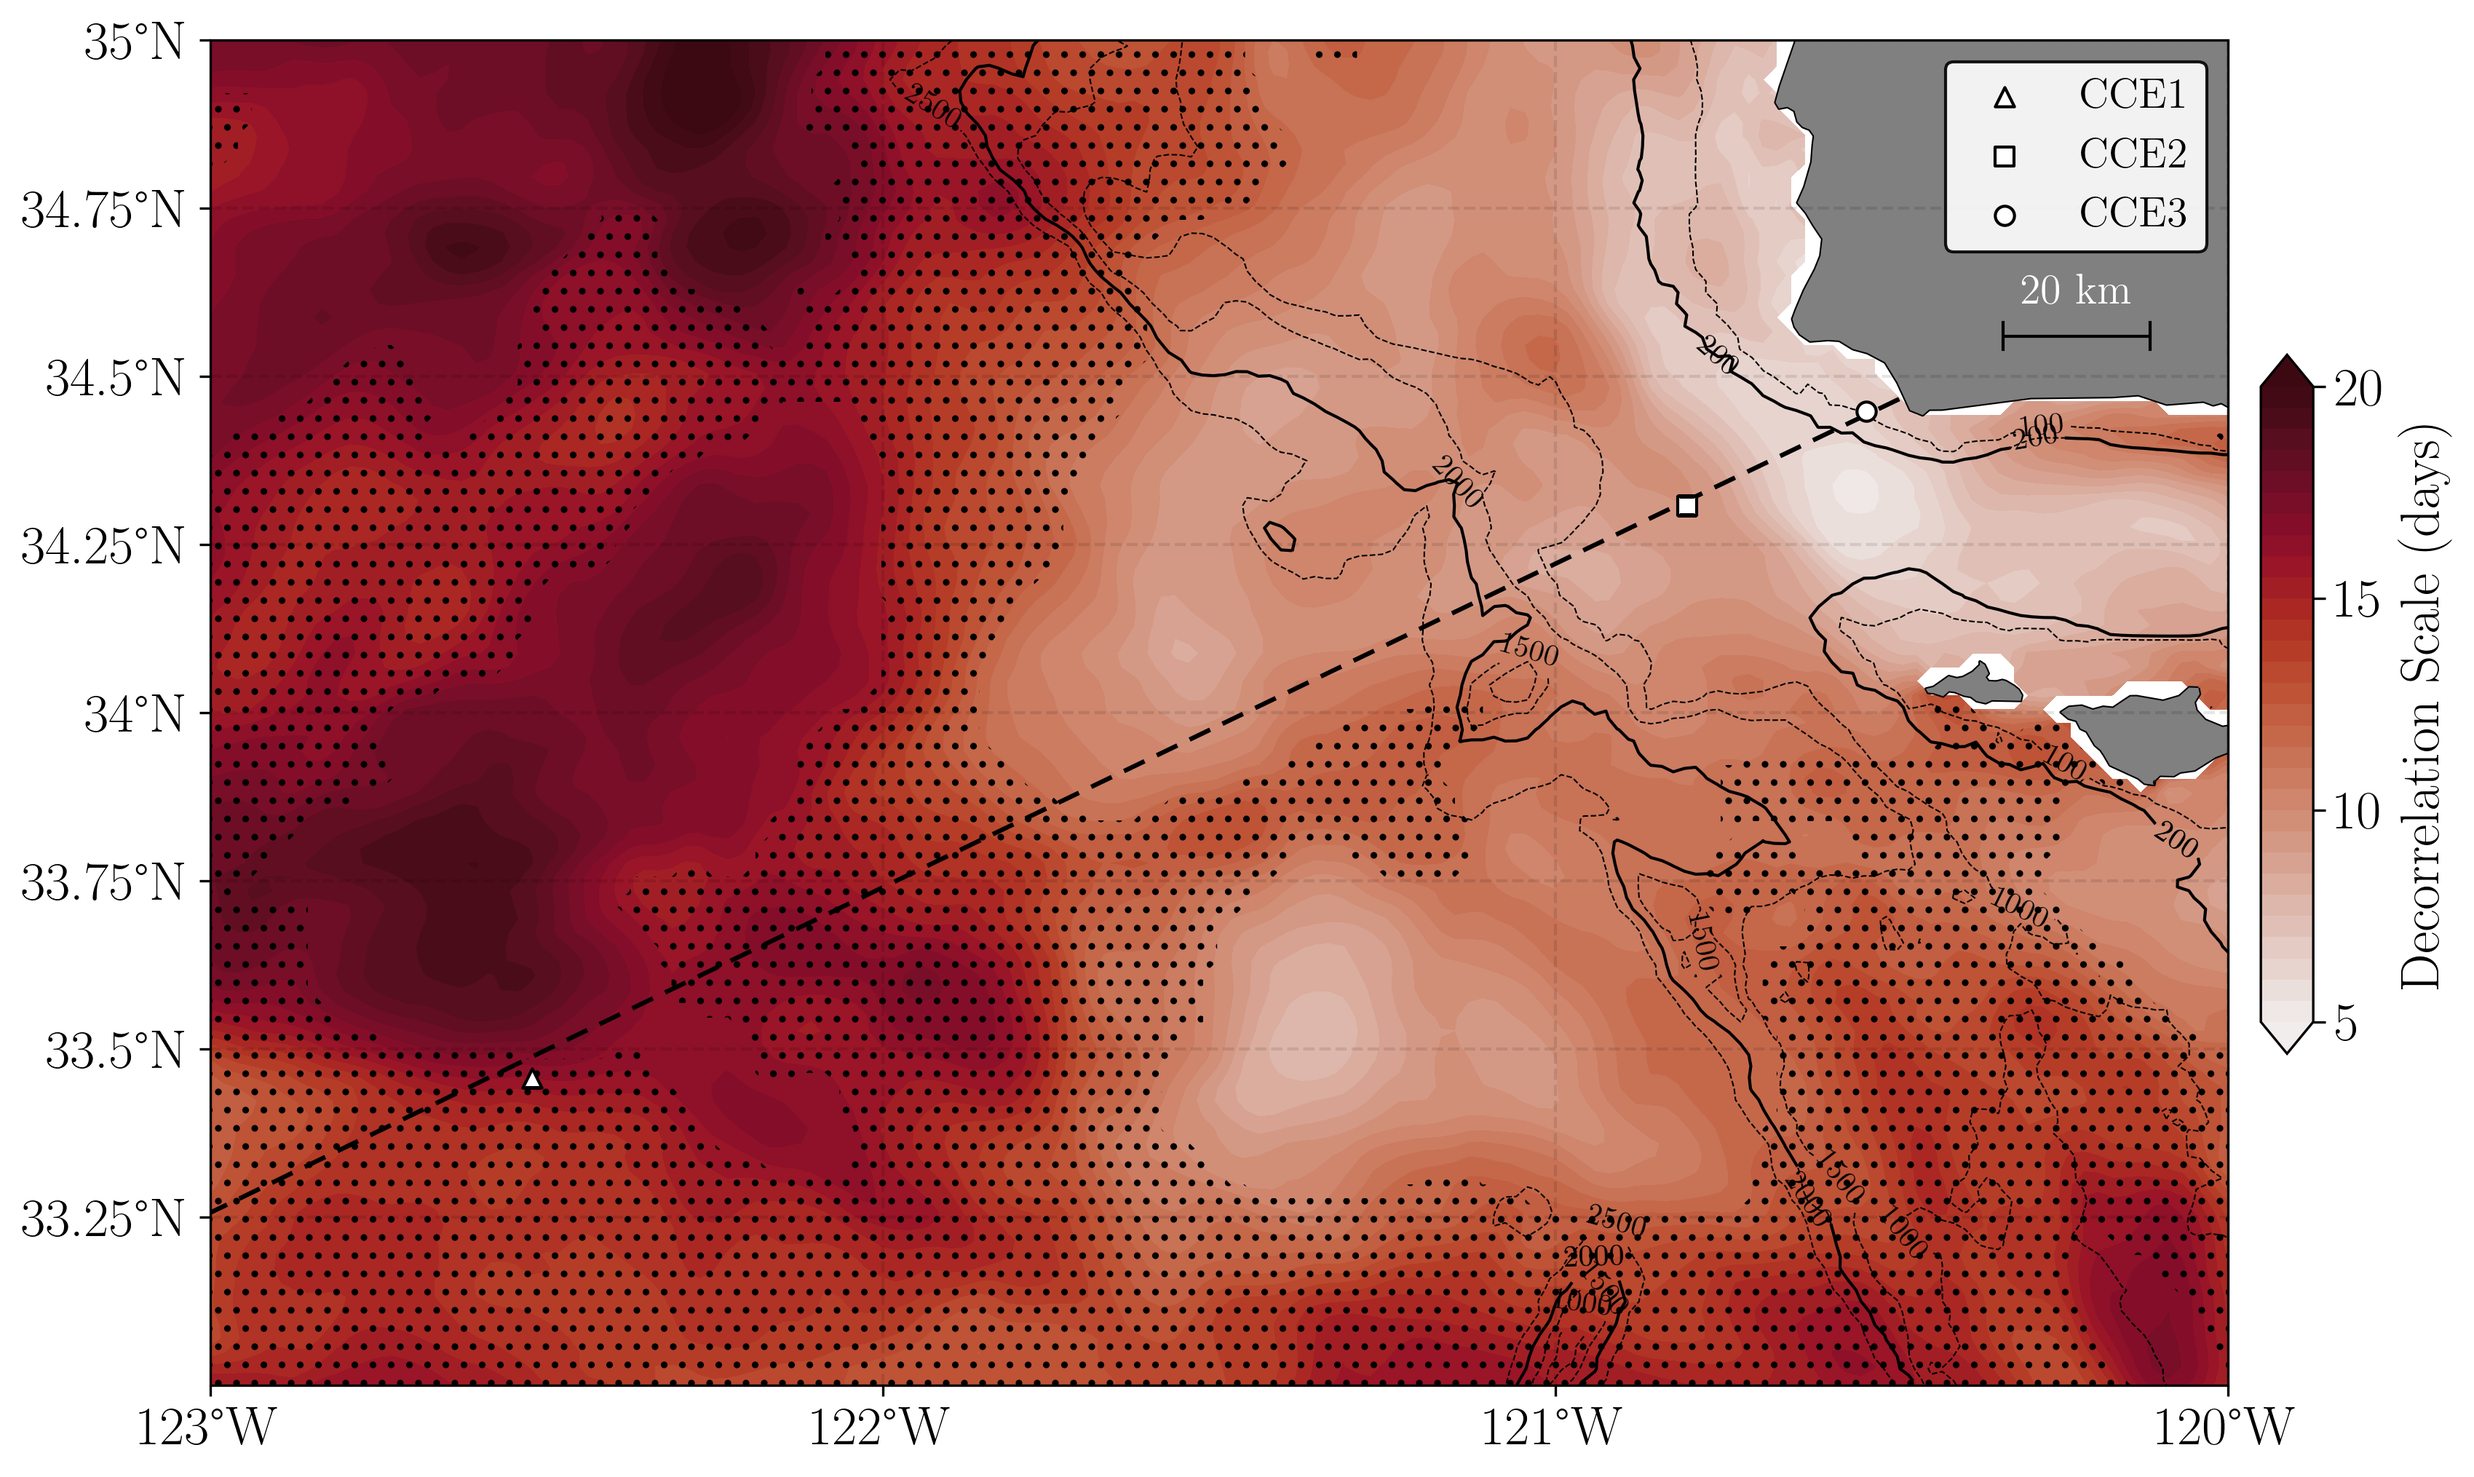
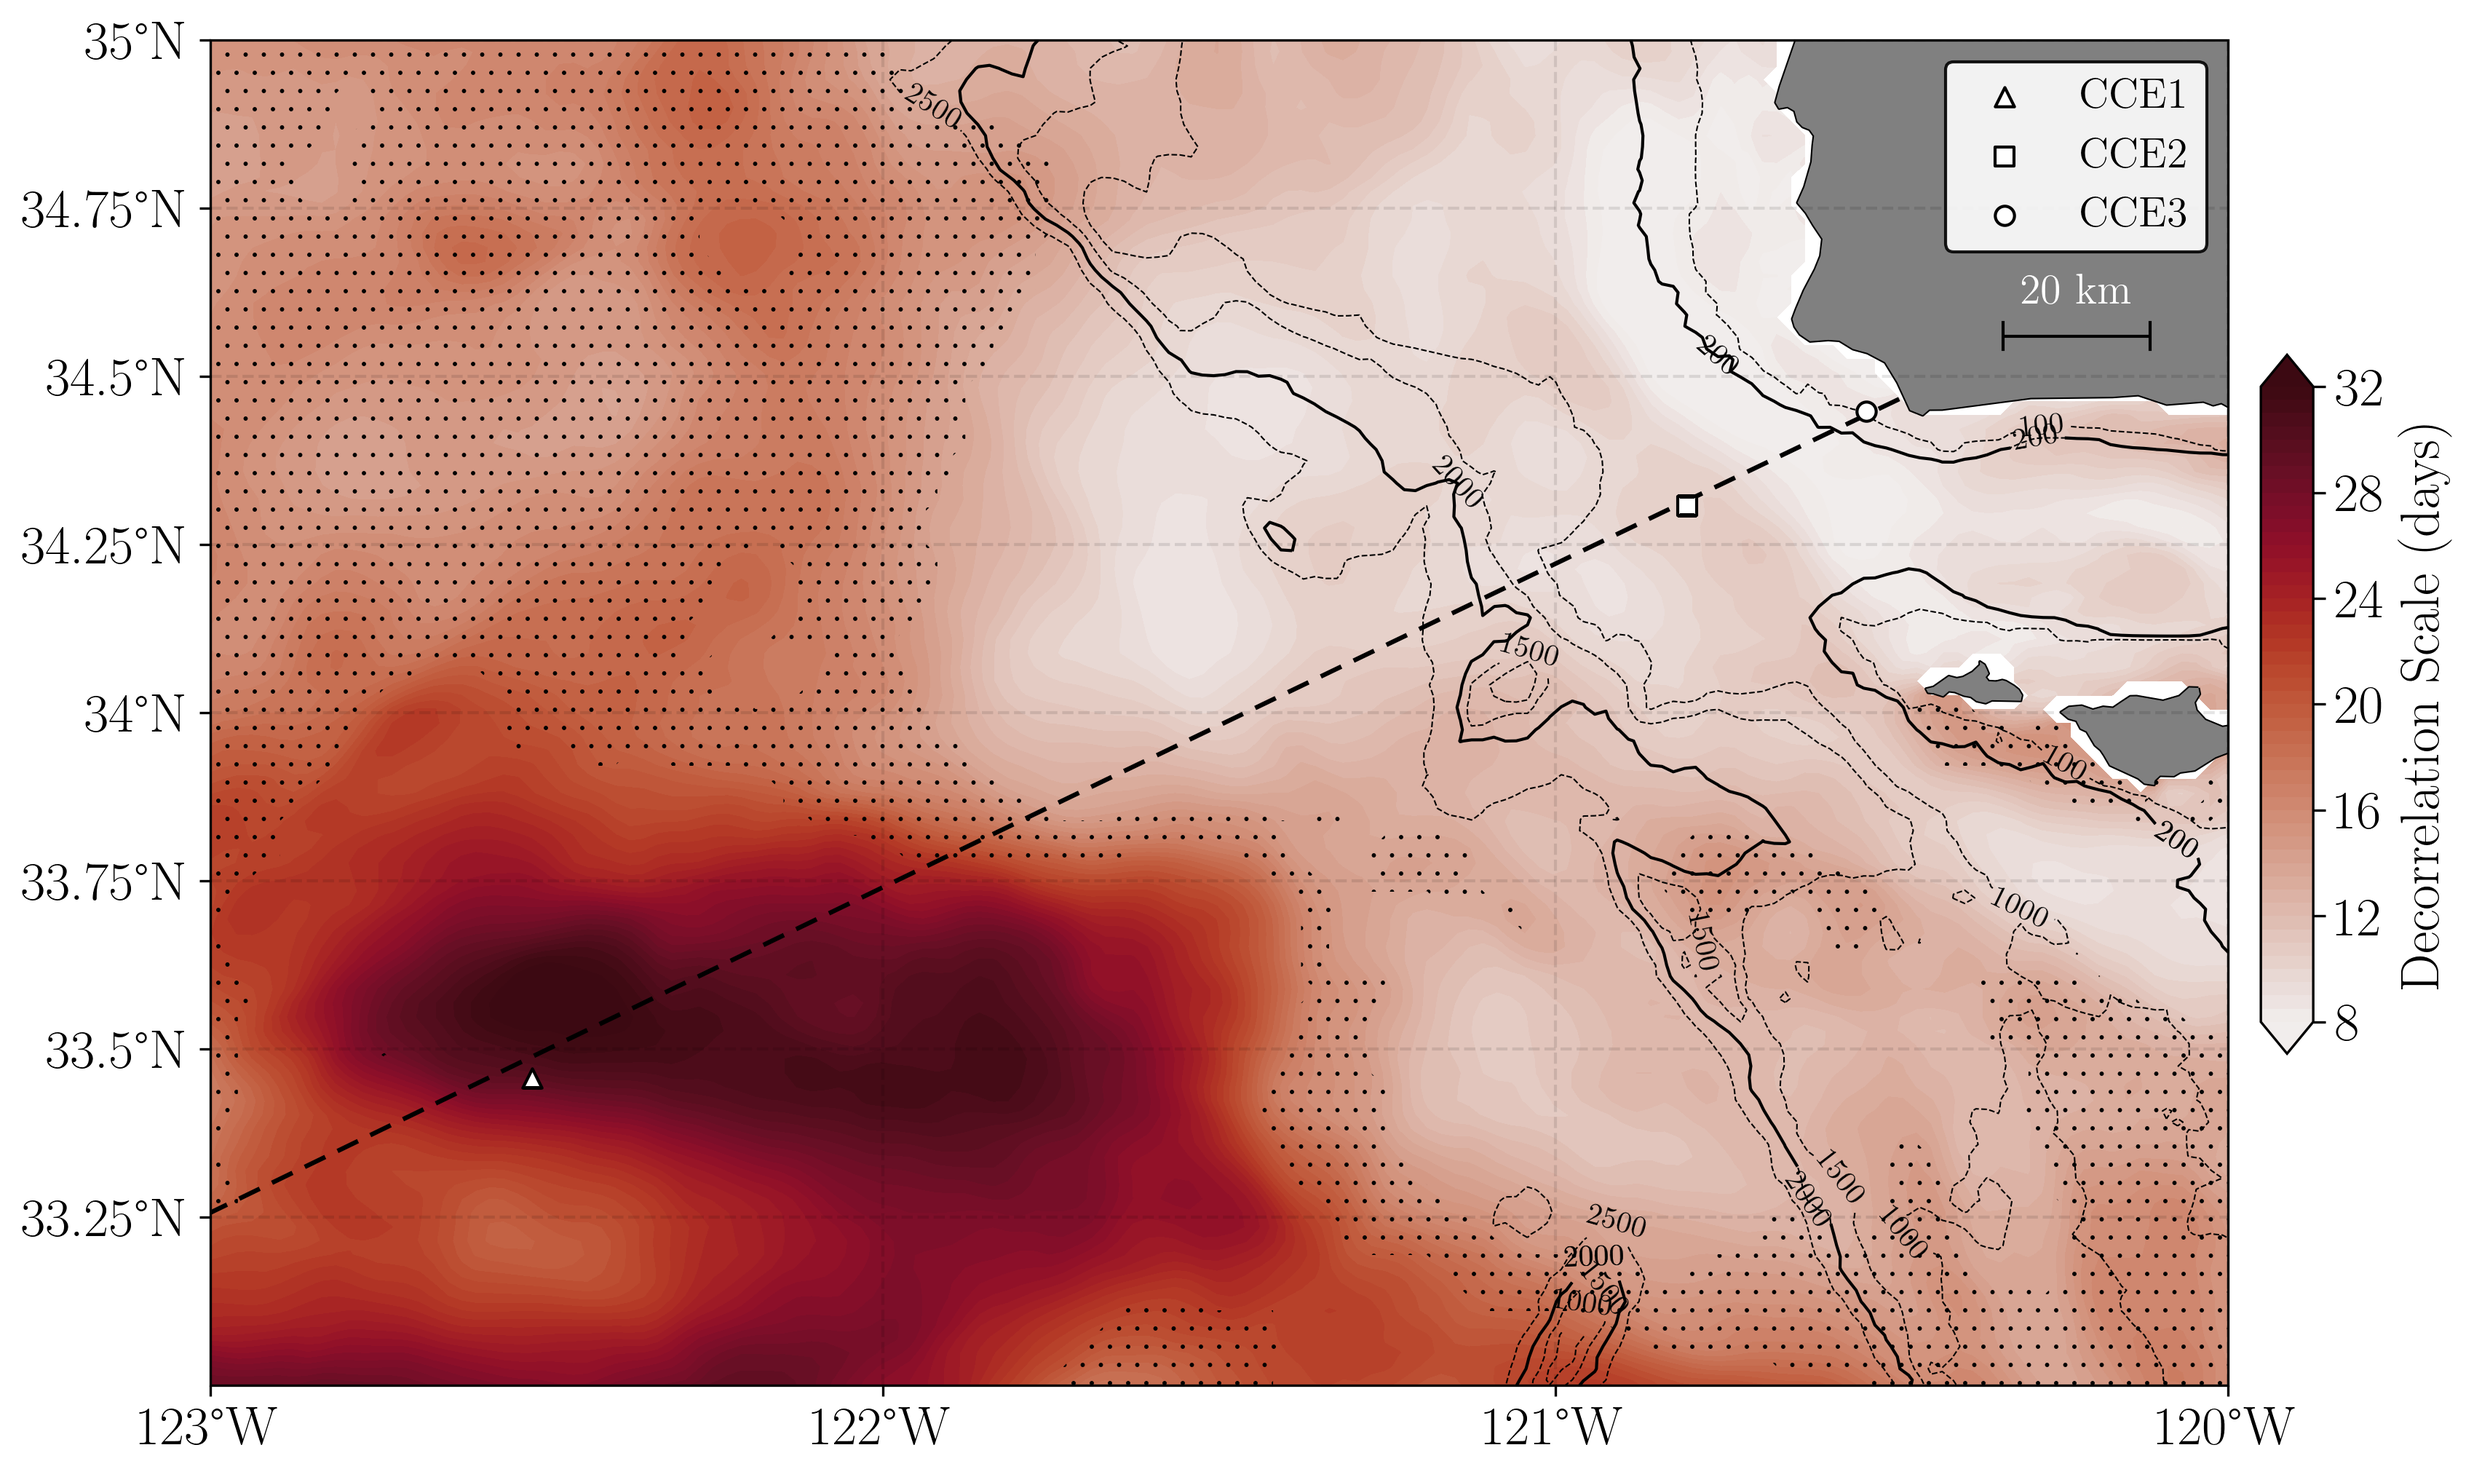
Small adjustments to decor figure code.

diff --git a/src/fig05.py b/src/fig05.py
@@ -22,8 +22,8 @@ from pathlib import Path
 import numpy as np
 import matplotlib.pyplot as plt 
 from netCDF4 import Dataset
-import cartopy.crs as ccrs
 import cmocean.cm as cmo
+import matplotlib as mpl
 
 # Set path to project root directory
 ROOT = Path(__file__).resolve().parents[1]
@@ -53,6 +53,7 @@ from plotting import add_x_axis_marker
 #                       Options include: 'linear' or 'gaussian'
 # - option_detrend_seg: Specifies whether each segment is detrended or not. 
 #                        Options: True or False
+# - segment_months : Specifies the window duration. 
 # - ns : Noise to signal ratio. 
 #
 # ------------#
@@ -61,6 +62,7 @@ from plotting import add_x_axis_marker
 option_data        = 'density'    
 option_interannual = 'linear' 
 option_detrend_seg = True
+segment_months     = 8
 
 # Label segment processing 
 seg_proc = "detrend" if option_detrend_seg else "demean"
@@ -87,7 +89,7 @@ plt.rcParams.update({
 PATH_processed = PATH_data / "mitgcm" / "transect" / "processed"
 
 # Obtain filename path
-filename_mitgcm = PATH_processed / f"mitgcm_decor_scale_{option_data}_hrly_trans_{option_interannual}_{seg_proc}.nc"
+filename_mitgcm = PATH_processed / f"mitgcm_decor_scale_{option_data}_hrly_trans_{option_interannual}_{seg_proc}_seg_duration_{segment_months}mo.nc"
 
 # Generate the nc data structure
 nc = Dataset(filename_mitgcm, 'r')
@@ -164,8 +166,9 @@ data_mask = np.where(Lt_mask, 1, np.nan)
 # -----------------------------------------------------------------------------
 
 # Set plotting parameters
-level = np.arange(15,40+1,1)
+level = np.arange(8,32+0.5,0.5)
 cmap = cmo.amp
+mpl.rcParams["hatch.linewidth"] = 0.2 
 
 # Create figure
 fig, ax = plt.subplots(figsize=(12,5))
@@ -179,7 +182,7 @@ ax.contourf(
     abs(depth),
     data_mask.T,
     levels=[0.5, 1.5],      
-    hatches=['///'],       
+    hatches=['..'],       
     colors='none',          
     zorder=10,              
 )
@@ -202,7 +205,7 @@ ax.grid(linestyle='--',alpha=0.1,color='k')
 cax = fig.add_axes([0.915, 0.125, 0.025, 0.73])
 cbar = fig.colorbar(cf, cax=cax, orientation='vertical', extend='both')
 cbar.set_label('Decorrelation Scale (days)')
-cbar.set_ticks(np.arange(15,40+5,5))
+cbar.set_ticks(np.arange(8,32+4,4))
 
 # --- Create top axis for longitude --- #
 ax_top = ax.twiny()

diff --git a/src/fig09.py b/src/fig09.py
@@ -24,6 +24,7 @@ import matplotlib.pyplot as plt
 from netCDF4 import Dataset
 import cartopy.crs as ccrs
 import cmocean.cm as cmo
+import matplotlib as mpl
 
 # Set path to project root directory
 ROOT = Path(__file__).resolve().parents[1]
@@ -56,6 +57,7 @@ from plotting import set_coastlines, set_grid_ticks, set_cbar, add_scalebar
 #                       Options include: 'linear' or 'gaussian'
 # - option_detrend_seg: Specifies whether each segment is detrended or not. 
 #                        Options: True or False
+# - segment_months : Specifies the window duration. 
 # - ns : Noise to signal ratio. 
 #
 # ------------#
@@ -65,6 +67,7 @@ option_data        = 'density'
 option_depth       = 9   
 option_interannual = 'linear' 
 option_detrend_seg = True
+segment_months     = 8
 
 # Label segment processing 
 seg_proc = "detrend" if option_detrend_seg else "demean"
@@ -91,7 +94,7 @@ plt.rcParams.update({
 PATH_processed = PATH_data / "mitgcm" / "regional" / "processed"
 
 # Obtain filename paths
-filename_mitgcm = PATH_processed / f"mitgcm_decor_scale_{option_data}_hrly_reg_depth_{option_depth}m_{option_interannual}_{seg_proc}.nc"
+filename_mitgcm = PATH_processed / f"mitgcm_decor_scale_{option_data}_hrly_reg_depth_{option_depth}m_{option_interannual}_{seg_proc}_seg_duration_{segment_months}mo.nc"
 
 # Generate the nc data structure
 nc = Dataset(filename_mitgcm, 'r')
@@ -175,12 +178,13 @@ resolution = "10m"
 bounds = np.arange(0,360+40,40)
 lon_min, lon_max = -123, -120
 lat_min, lat_max = 33, 35
-levels = np.arange(5,20+0.5,0.5) 
+levels = np.arange(8,32+0.5,0.5) 
 level_is = np.arange(100,300,100)
 levels_ms = np.arange(1000,3000,500)
 fontsize_g = 18
 fontsize_c = 10
 cmap = cmo.amp
+mpl.rcParams["hatch.linewidth"] = 0.2 
 
 # Create figure
 fig, ax = plt.subplots(figsize=(12, 8), subplot_kw={"projection": projection})
@@ -335,7 +339,7 @@ set_cbar(
     extend="both",
     label='Decorrelation Scale (days)',
     fontsize=fontsize_g,
-    ticks=np.arange(5,20+5,5), 
+    ticks=np.arange(8,32+4,4), 
     invert = False
 )
 
